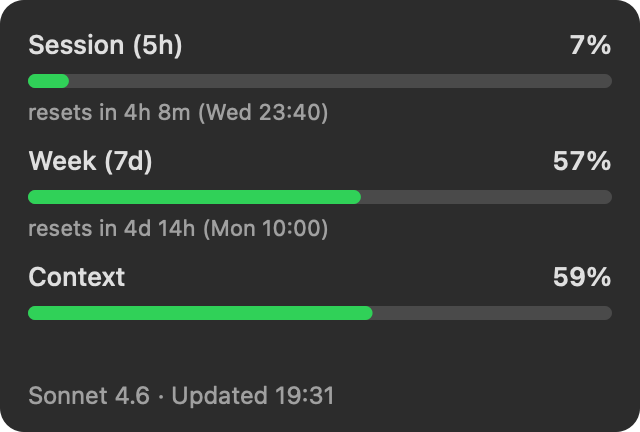
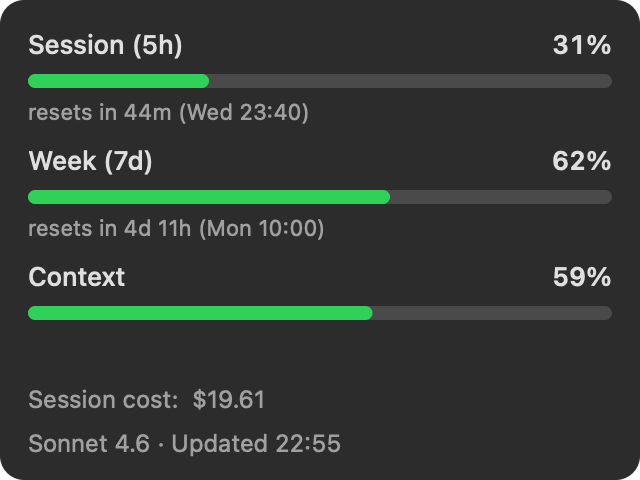
Lap 31: snapshot shows cost line — Snapshot.swift + new dropdown.png live

Changed region(s): [[0.0312, 0.0602, 0.9688, 0.7523], [0.0312, 0.8125, 0.5312, 0.963], [0.8438, 0.0602, 0.9688, 0.1204]]

diff --git a/app/Sources/Headroom/Snapshot.swift b/app/Sources/Headroom/Snapshot.swift
@@ -8,7 +8,8 @@ enum Snapshot {
     static func write(usage: Usage, to path: String) throws {
         let width: CGFloat = 320
         let hasContext = usage.contextUsed != nil
-        let height: CGFloat = hasContext ? 216 : 158
+        let hasCost = usage.sessionCost != nil
+        let height: CGFloat = (hasContext ? 216 : 158) + (hasCost ? 24 : 0)
         let panel = PanelView(frame: NSRect(x: 0, y: 0, width: width, height: height))
         panel.appearance = NSAppearance(named: .darkAqua)
 
@@ -32,6 +33,9 @@ enum Snapshot {
         clock.dateStyle = .none
         let updatedText = "Updated \(clock.string(from: Date()))"
         panel.statusText = [usage.modelName, updatedText].compactMap { $0 }.joined(separator: " · ")
+        if let cost = usage.sessionCost {
+            panel.costText = "Session cost:  \(Render.cost(cost))"
+        }
 
         let pixelsHigh = Int(height * 2)
         guard let rep = NSBitmapImageRep(
@@ -56,19 +60,22 @@ enum Snapshot {
 /// The dark rounded card the meters sit on — visually the menu, minus the chrome.
 final class PanelView: NSView {
     var statusText = ""
+    var costText = ""
 
     override var isFlipped: Bool { true }
 
     override func draw(_ dirtyRect: NSRect) {
         NSColor(calibratedWhite: 0.13, alpha: 1).setFill()
         NSBezierPath(roundedRect: bounds, xRadius: 12, yRadius: 12).fill()
+        let attrs: [NSAttributedString.Key: Any] = [
+            .font: NSFont.systemFont(ofSize: 12),
+            .foregroundColor: NSColor.secondaryLabelColor,
+        ]
+        if !costText.isEmpty {
+            (costText as NSString).draw(at: NSPoint(x: 14, y: bounds.height - 48), withAttributes: attrs)
+        }
         if !statusText.isEmpty {
-            (statusText as NSString).draw(
-                at: NSPoint(x: 14, y: bounds.height - 26),
-                withAttributes: [
-                    .font: NSFont.systemFont(ofSize: 12),
-                    .foregroundColor: NSColor.secondaryLabelColor,
-                ])
+            (statusText as NSString).draw(at: NSPoint(x: 14, y: bounds.height - 26), withAttributes: attrs)
         }
     }
 }

diff --git a/VISION.md b/VISION.md
@@ -115,6 +115,9 @@ run it is [`LOOP.md`](LOOP.md).
 
 ### Loop log (newest first)
 
+- **Lap 31 — 2026-06-10 · Landing screenshot updated: cost line now visible in dropdown.png.**
+  *Shipped:* `Snapshot.swift` updated to include the "Session cost: $X.XX" row — the same cost line `main.swift` adds as a menu item, now also in the static snapshot render. Height grows by 24pt when `usage.sessionCost` is non-nil. New `dropdown.png` generated from real live hook data (31% session, 62% week, 59% context, $19.61 session cost, Sonnet 4.6) and deployed via `railway up --ci`. Origin now returning 41,250 bytes. Also discovered: AlternativeTo.net listing requires one-time login on the agent-browser Chrome profile — script is waiting on Pat to log in (auto-continues after). Downloads: 18. *Fact learned:* `Snapshot.swift` and `main.swift` are two separate rendering paths — any new display row added to the menu must be added to both or the landing screenshot silently falls behind. The cost line was added to `main.swift` in Lap 29 but the snapshot was not updated. Pattern to avoid: every new `NSMenuItem` addition should immediately mirror into `Snapshot.swift`. *Next lap:* AlternativeTo listing (highest-leverage pending distribution — login-gated), more listing PRs, or ProductHunt.
+
 - **Lap 30 — 2026-06-10 · v0.3.4 shipped: context %, model name, session cost — notarized and live.**
   *Shipped:* Cut the v0.3.4 release from this machine: `bundle.sh 0.3.4` → universal binary (arm64 + x86_64), signed with Developer ID Application: Pat Walls (V2N8KFLG3G), notarized (Apple: Accepted), stapled, Gatekeeper: accepted. 267 KB zip deployed to `headroom.walls.sh` via `railway up --ci` (health: ✅), [GitHub release v0.3.4](https://github.com/patwalls/headroom/releases/tag/v0.3.4) published with changelog. Also posted to r/ClaudeAI via the fixed old.reddit.com script (CONFIRM=1). Also verified all 8 listing PRs still open (no merges yet). *Fact learned:* The Developer ID cert + notarytool keychain profile were already installed on this machine from previous laps — the "needs Pat to run bundle.sh on Developer ID machine" note in Lap 25/29 was referring to a two-machine setup that no longer applies. The build pipeline is fully autonomous now: any lap can cut a notarized release without human steps. *Next lap:* AlternativeTo listing (30M monthly visitors, on the allowlist), landing snapshot update (show cost line), or X post once Pat logs in.
 